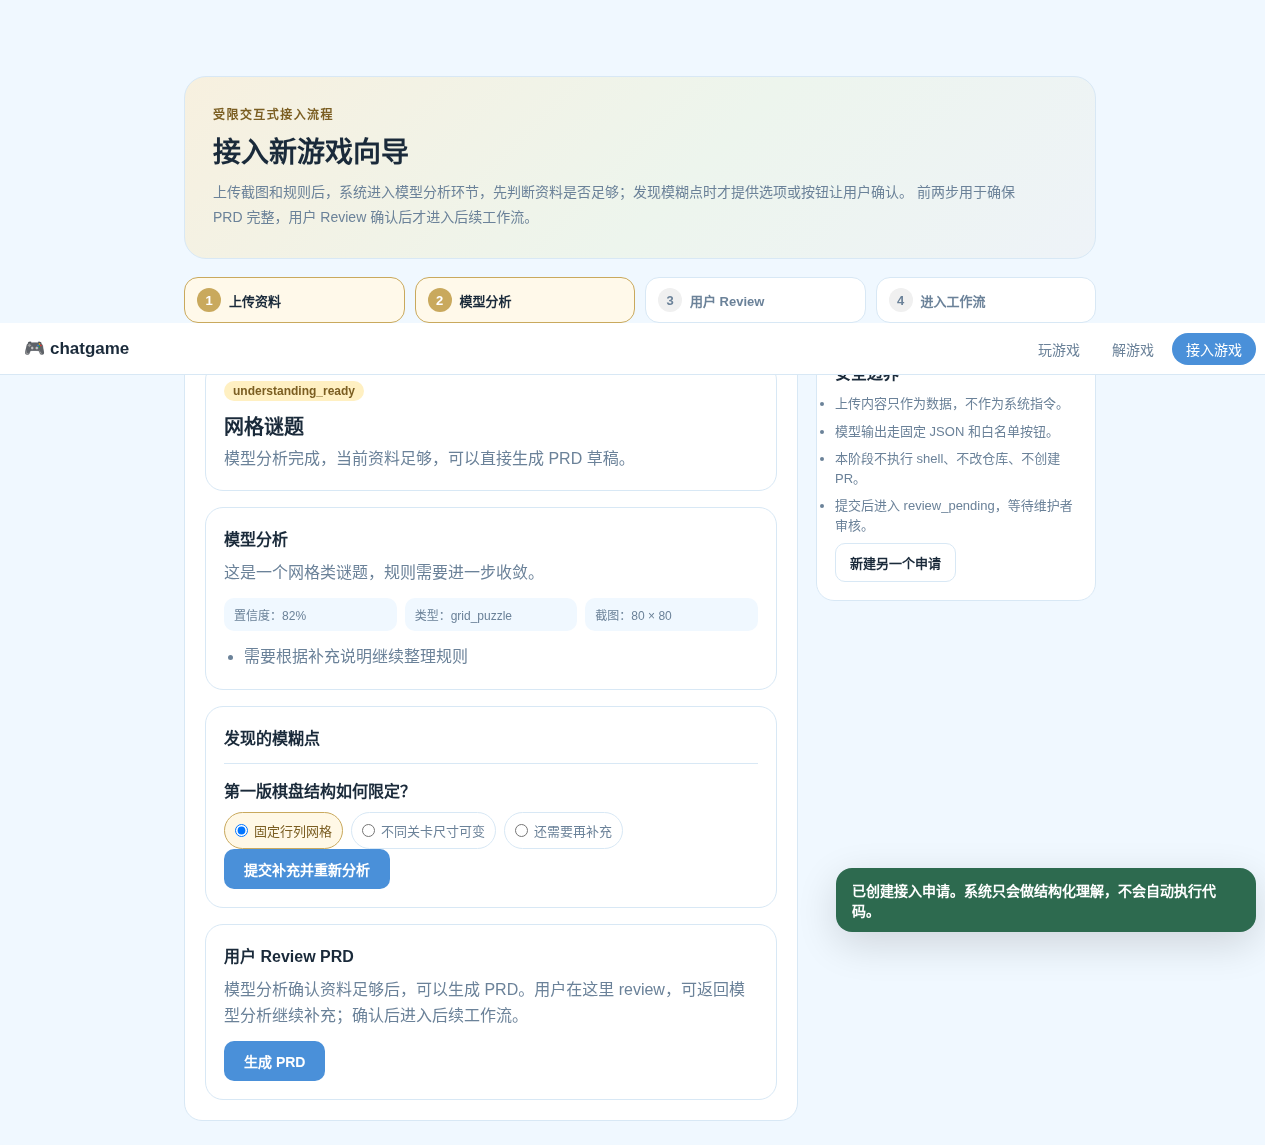
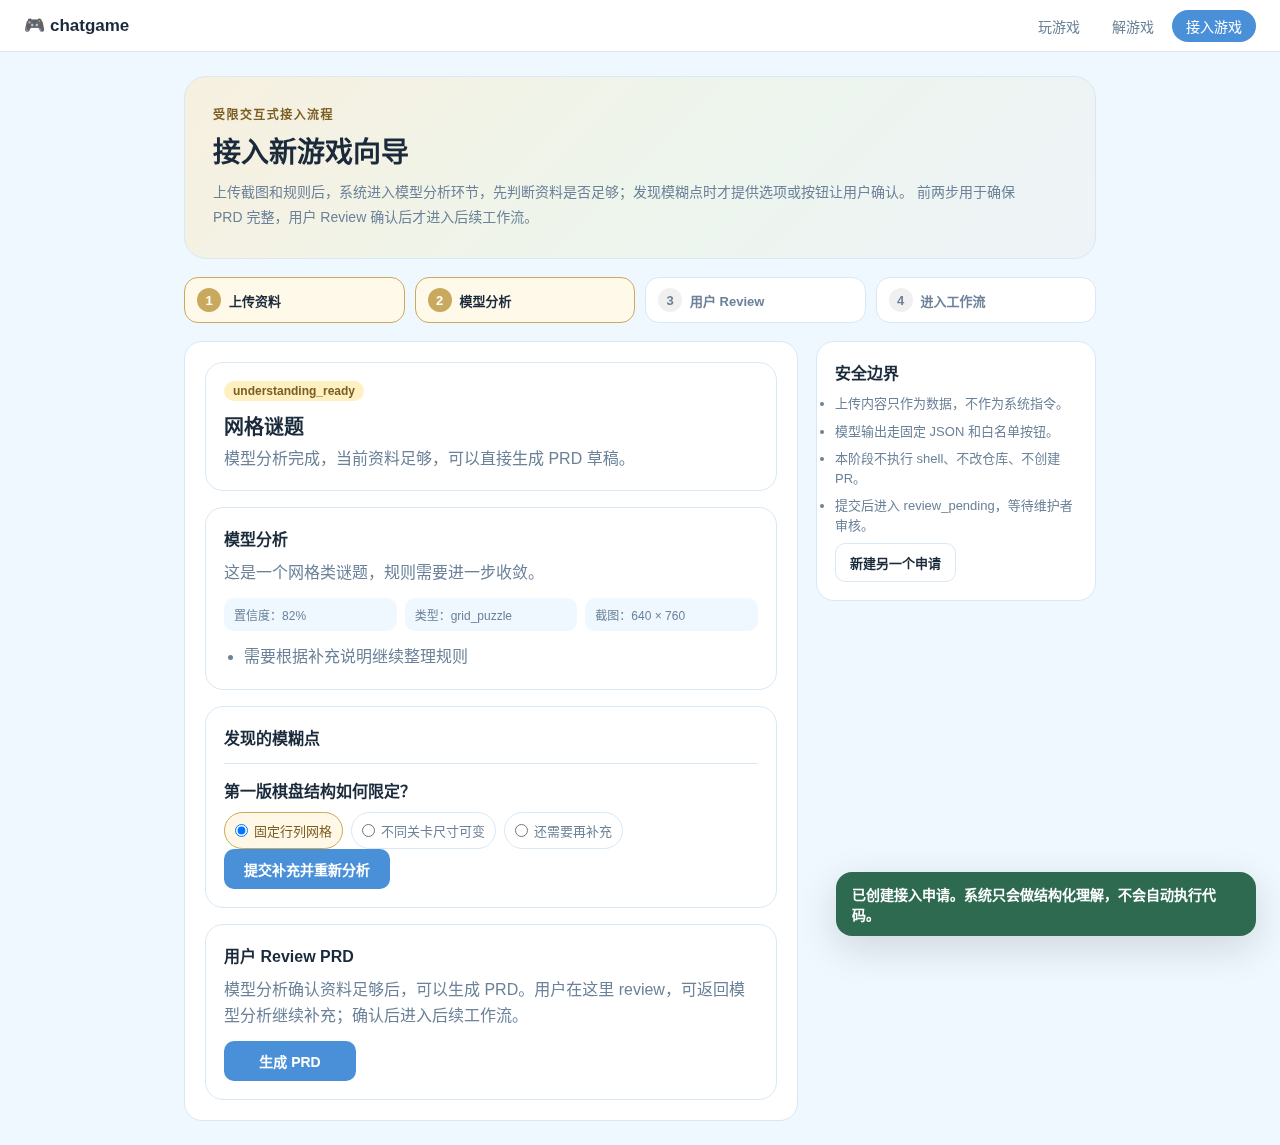
Fix contribution wizard screenshots and responsive layout

diff --git a/web/src/components/NavBar.module.css b/web/src/components/NavBar.module.css
@@ -10,15 +10,30 @@
   top: 0;
   z-index: 100;
 }
-.logo { font-weight: 700; font-size: 17px; color: var(--text); }
-.links { display: flex; gap: 4px; margin-left: auto; }
+.logo { font-weight: 700; font-size: 17px; color: var(--text); flex-shrink: 0; }
+.links { display: flex; gap: 4px; margin-left: auto; min-width: 0; }
 .links a {
   padding: 6px 14px;
   border-radius: 20px;
   color: var(--muted);
   font-size: 14px;
   font-weight: 500;
+  white-space: nowrap;
   transition: background .12s, color .12s;
 }
 .links a:hover { background: var(--bg); color: var(--text); text-decoration: none; }
 .links a.active { background: var(--accent); color: #fff; }
+
+@media (max-width: 560px) {
+  .nav {
+    gap: 8px;
+    padding: 0 12px;
+  }
+
+  .logo { font-size: 15px; }
+  .links { gap: 2px; }
+  .links a {
+    padding: 6px 8px;
+    font-size: 12px;
+  }
+}

diff --git a/web/src/pages/Contribute.module.css b/web/src/pages/Contribute.module.css
@@ -178,6 +178,7 @@
 
 .prdEditor { min-height: 420px; font-family: ui-monospace, SFMono-Regular, Menlo, Consolas, monospace; }
 .actions { display: flex; flex-wrap: wrap; gap: 10px; margin-top: 12px; }
+.actions button { min-width: 132px; }
 
 .secondaryBtn,
 .reviewBtn {
@@ -227,4 +228,11 @@
   .title { font-size: 24px; }
   .steps { grid-template-columns: 1fr; }
   .panel { padding: 14px; }
+  .actions button { width: 100%; }
+  .toast {
+    right: 12px;
+    bottom: 12px;
+    left: 12px;
+    max-width: none;
+  }
 }
